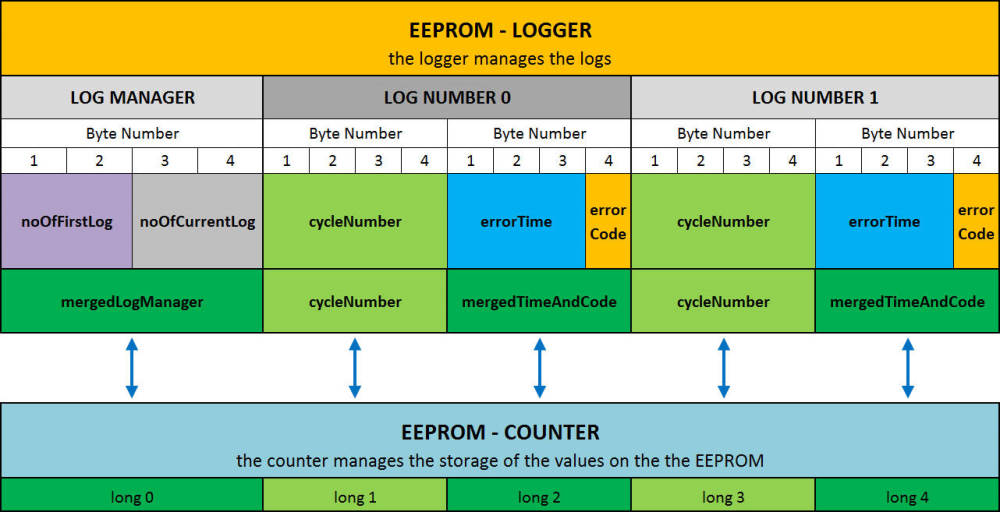
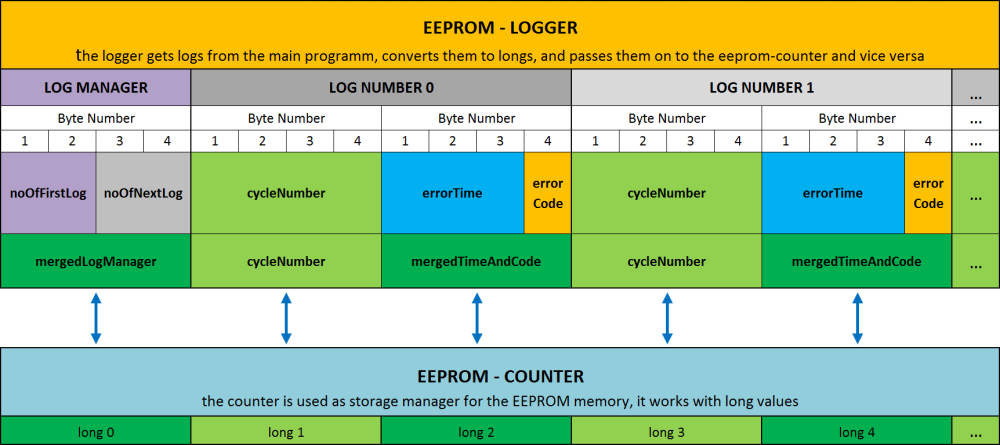
Update graphical overview and readme

diff --git a/README.md b/README.md
@@ -1,6 +1,5 @@
 # eeprom-logger-library 
 
-**REPLACE "noOfCurrentLog" WITH "noOfNextLog"**
 **UPDATE README WITH LIBRARY FUNCTIONS**
 
 **Library to store logs on the non volatile Arduino EEPROM memory.**
